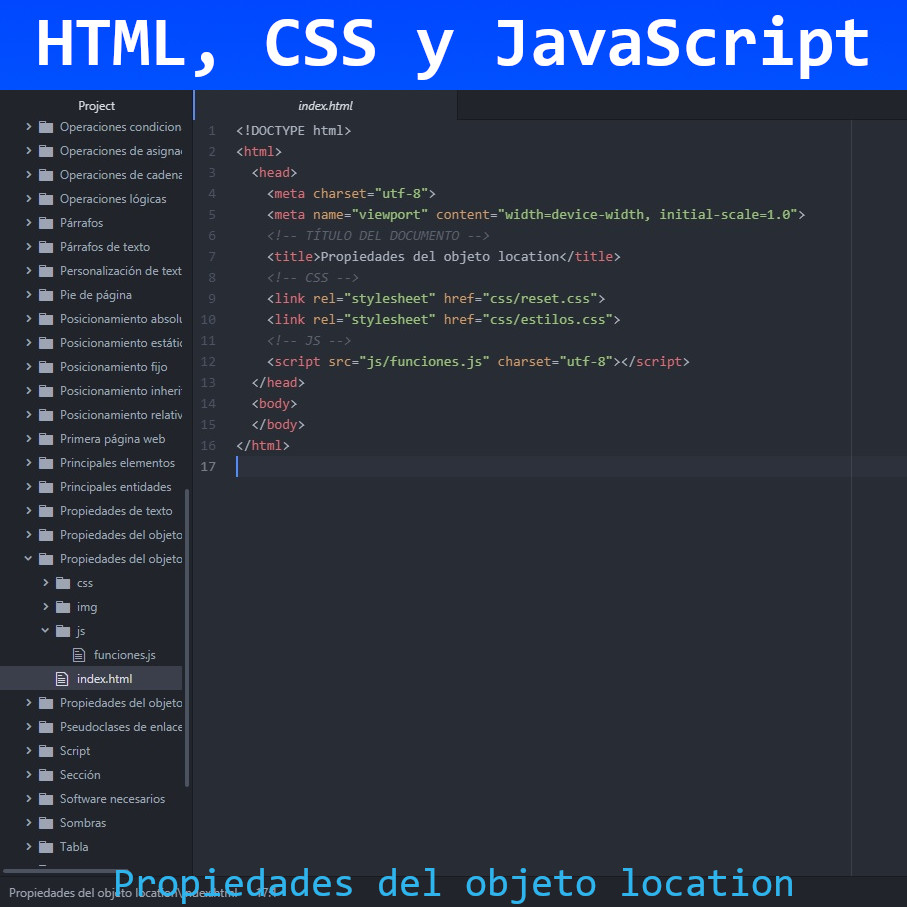
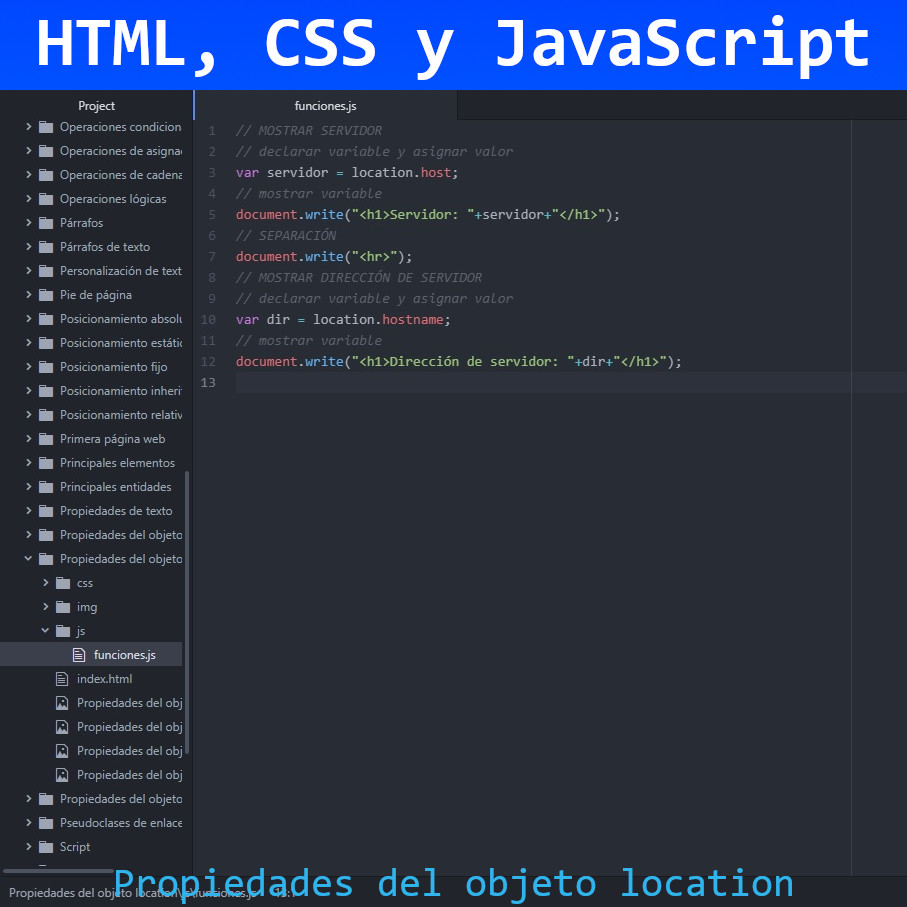
Propiedades del objeto location
Propiedades del objeto location en JavaScript

diff --git a/HTML, CSS y JavaScript/Propiedades del objeto location/js/funciones.js b/HTML, CSS y JavaScript/Propiedades del objeto location/js/funciones.js
@@ -1,3 +1,12 @@
 // MOSTRAR SERVIDOR
+// declarar variable y asignar valor
 var servidor = location.host;
+// mostrar variable
 document.write("<h1>Servidor: "+servidor+"</h1>");
+// SEPARACIÓN
+document.write("<hr>");
+// MOSTRAR DIRECCIÓN DE SERVIDOR
+// declarar variable y asignar valor
+var dir = location.hostname;
+// mostrar variable
+document.write("<h1>Dirección de servidor: "+dir+"</h1>");
